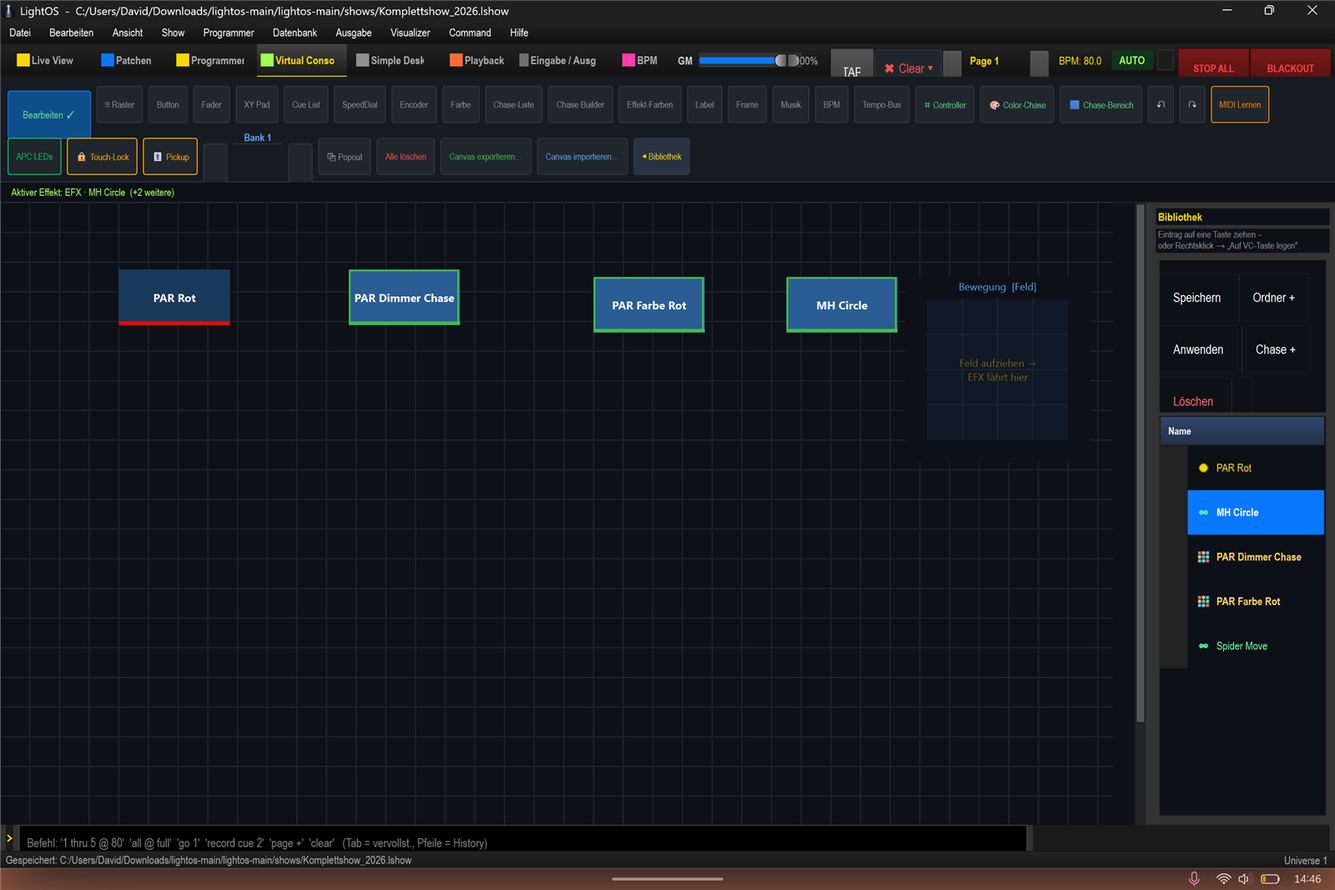
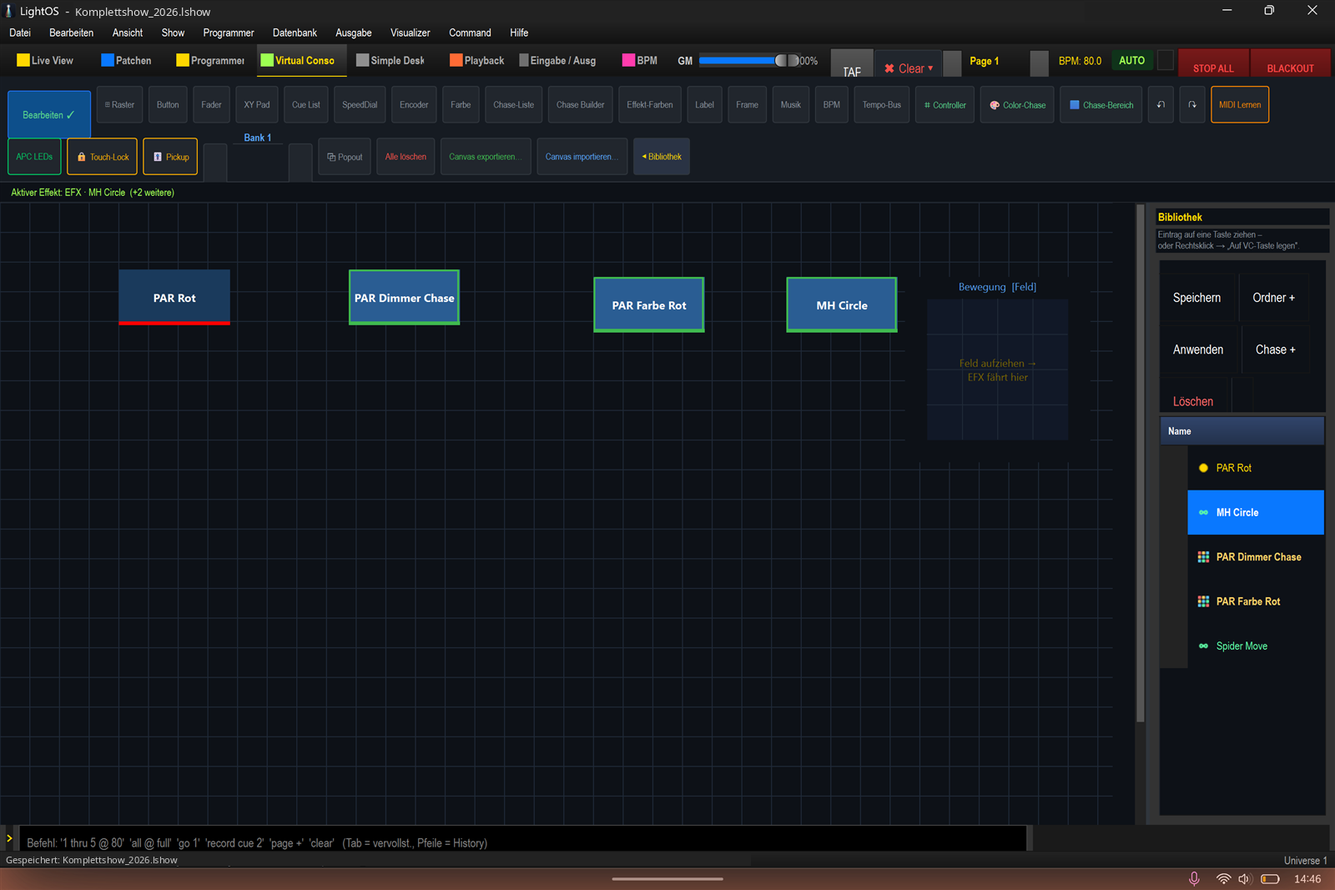
docs(datenschutz): private Pfade, fremde App-Fenster und Seriennummer aus Bildern und Texten (DOC-16a)
- 137 unverlinkte Arbeitsbilder in docs/tutorial_matrix/img/_* entfernt
  (darunter zwei Aufnahmen einer fremden App mit Kontoname).
- Windows-Benutzerpfad in Titel-/Statuszeile von 29 verlinkten Bildern
  ueberdeckt; in zwei Gruppen-Bildern ein fremdes App-Fenster ausgeblendet.
  Grundlage: Sichtpruefung aller 490 Bilder per Kontaktbogen.
- ENTTEC-Seriennummer pseudonymisiert, neuer Waechter
  KeineGeraeteSeriennummerTest.
- BACKLOG: DOC-16 (GitHub-Seite + bebilderte Anleitungen) angelegt.

Changed region(s): [[0.0625, 0.0, 0.375, 0.0309], [0.0, 0.9588, 0.3125, 0.9897]]

diff --git a/tests/test_keine_privaten_dateien.py b/tests/test_keine_privaten_dateien.py
@@ -200,3 +200,39 @@ class KeineFremdenBenutzerpfadeTest(unittest.TestCase):
 
 if __name__ == "__main__":
     unittest.main()
+
+
+class KeineGeraeteSeriennummerTest(unittest.TestCase):
+    """DOC-16a: keine ENTTEC-Seriennummer im oeffentlichen Repo.
+
+    Die Nummer des Rig-Interfaces stand in drei Doku-/Protokoll-Zeilen
+    (RIG_CHECKLISTE, LINUX_STABILITY_FULL_CHECK, BACKLOG HW-5c). Sie hilft
+    niemandem, der das Repo liest, identifiziert aber ein konkretes Geraet.
+    Anders als bei den Benutzerpfaden gilt das auch fuer BACKLOG/CHANGELOG.
+    """
+
+    # ENTTEC-Seriennummern: "EN" + sechs Ziffern, am Wortrand.
+    MUSTER = r"\bEN\d{6}\b"
+
+    def test_keine_seriennummer(self):
+        import re
+        rx = re.compile(self.MUSTER)
+        treffer = []
+        for p in _getrackte_dateien():
+            if not p.endswith((".py", ".sh", ".md", ".json", ".txt")):
+                continue
+            try:
+                with open(os.path.join(_REPO, p), encoding="utf-8") as f:
+                    for nr, zeile in enumerate(f, 1):
+                        if rx.search(zeile):
+                            treffer.append(f"{p}:{nr}")
+            except (OSError, UnicodeDecodeError):
+                continue
+        self.assertEqual(treffer, [], "Seriennummer im Repo — bitte als EN•••••• schreiben.")
+
+    def test_muster_trifft(self):
+        import re
+        rx = re.compile(self.MUSTER)
+        probe = "EN" + "123456"   # zusammengesetzt, sonst faende der Test sich selbst
+        self.assertTrue(rx.search(f"Seriennr. {probe}"))
+        self.assertFalse(rx.search("EN••••••"))

diff --git a/BACKLOG.md b/BACKLOG.md
@@ -697,7 +697,7 @@ Kurzfassung + Handgriffe stehen oben in der Arbeitswarteschlange; Second Brain:
 | HW-3 | P2 | blocked (David/Hardware) | **EFX auf einem einzelnen Kopf am echten Mover.** Gelandet ([PR #454](https://github.com/ixamgames-droid/lightos/pull/454)), verifiziert im Simple-Desk-Kanalstreifen (nur CH6/CH7 bewegten sich, Köpfe 1/3/4 blieben auf 128/128) — aber ohne DMX-Ausgang, also nie an einem echten Motor. **Handgriff:** `Kopf 2` wählen → EFX-Tab → `+ Neu`, **`Speichern`** (ein nicht gespeicherter Entwurf verschwindet beim Tab-Wechsel), dann `▶ Start`. **Melden:** bewegt sich nur dieser Kopf, stehen die anderen, ist der Beam sichtbar. Hängt an HW-1 (welcher Kopf ist es physisch?) und lässt sich in derselben Session miterledigen. |
 | HW-4 | P2 | blocked (David/Hardware) | **Hardware-Verifikation der realen Show** (4 PAR + 2 Moving Heads + APC Mini, ZQ02001 auf Adresse 33/44, 9ch + 11ch) inkl. „MH-Stillstand". Code-seitig ist nichts offen; es fehlt der Durchgang am Gerät gegen die dokumentierten Profil-Annahmen. **Stand bisher nur in `docs/OPEN_POINTS_OVERVIEW.md` als `X-1 / B-1-HW / MH-Stillstand` (dort „Hoch")** — beim Zusammenziehen der Hardware-Punkte 2026-07-27 ins BACKLOG geholt, weil das die Single Source ist. **Melden:** stimmen die Kanalzuordnungen, bleibt ein MH stehen, der fahren soll. |
 | HW-6 | P3 | blocked (Robin/Hardware) | **Die Windows-Port-Warnung (XPLAT-22) am echten Enttec bestätigen.** Der Mechanismus ist am echten Win32 bewiesen, aber über eine exklusiv gehaltene *Datei* — an diesem Rechner hängt kein COM-Port. Offen ist genau eine Frage: **welchen Fehlercode ein FTDI-Adapter im Belegtfall wirklich liefert.** Der Code behandelt vorsorglich beide (5 und 32); käme ein dritter, bliebe die Warnung stumm. **Handgriff:** Enttec anstecken → LightOS starten → zweite Instanz starten. Erwartung: die zweite meldet „ist bereits von einem anderen Prozess geöffnet" samt Verdachtsliste. Bleibt sie stumm, den Code aus `_win_oeffnungsversuch` mitschreiben (er steht in der Rückgabe) und in `_WIN_BELEGT` ergänzen. Zweite Beobachtung, die dabei abfällt: ob das kurze Test-Öffnen am FTDI eine sichtbare Leitungs-Umschaltung auslöst — erwartet wird nein, weil der Aufrufer unmittelbar danach ohnehin selbst öffnet. ★ **Dritter Punkt, dazugekommen mit XPLAT-21:** die Tastenbelegung von `tools/mh_einmessen.py` auf Windows. Die Codes sind dokumentiert und als Tabelle geprüft, aber noch nie an einem echten Terminal gedrückt worden. **Handgriff beim Einmessen:** Strg+Pfeil muss grob bewegen (8x). Tut es das nicht, fängt die Konsole die Taste ab — dann Bild-hoch/-runter bzw. Pos1/Ende probieren; beide Wege sind eingebaut. Funktioniert keiner, den Code mitschreiben (`uebersetze_windows` gibt bei Unbekanntem `''` zurück) und in `WIN_TASTEN` ergänzen. |
-| HW-5c | P2 | ✅ done (2026-08-02, mit Davids Freigabe umgestellt) — `data/universes.json` Universe 3 trägt jetzt `/dev/ttyUSB0` statt `COM_FAKE`, Name auf „Hydra (Enttec /dev/ttyUSB0)" korrigiert (das alte „COM3" war genau der irreführende Teil). Gerät per `udevadm` zweifelsfrei identifiziert: `ID_VENDOR=ENTTEC`, `ID_MODEL=DMX_USB_PRO`, Seriennr. `EN492875`; Port lässt sich öffnen, Nutzer ist in `dialout`. Sicherung der alten Datei liegt außerhalb des Repos (`../archiv/universes-backups/`). **★★ Dabei ist die Begründung des Items weggefallen:** die Vermutung war, `COM_FAKE` erkläre Davids Blackout-Symptom (b) — gemessen über **alle 15 aktiven und 47 archivierten Shows plus den Live-Patch: auf Universe 3 ist nirgends etwas gepatcht.** Alle 30 Geräte liegen auf Universe 1 (Art-Net), inklusive der Hydrabeams, die die Notizen am Enttec vermuteten. Ein Blackout kann an einem Ausgang ohne Geräte nicht gescheitert sein — **Symptom (b) ist damit wieder offen** und braucht die „bierpong v2"-Show (liegt auf dem Windows-Rig) oder Davids Erinnerung, an welchem Ausgang die betroffenen Geräte hingen. *Eine plausible Erklärung ist keine gemessene.* **Nebenbefund:** die Datei trug `COM_FAKE` erneut, obwohl HW-5b sie am 2026-07-30 schon einmal korrigiert hatte (Dateidatum 01.08.) — die fünf naheliegenden Output-Testdateien schreiben sie nachweislich NICHT (Hash vor/nach identisch), die Ursache des Rückfalls ist also offen. Hash notiert, wird nach dem nächsten Voll-Lauf gegengeprüft. — _Ursprünglicher Text:_ | **Das Enttec-Universe zeigt weiterhin auf `COM_FAKE` — die App sendet dort nichts hin.** `data/universes.json` trägt für „Hydra (Enttec COM3)" unverändert `"patch": "COM_FAKE"` (Windows-Rest aus dem Linux-Umzug); auf Linux heißt das Gerät `/dev/ttyUSB0`. HW-5b hat 2026-07-30 die **Warnung** gebaut (der Statusbalken lügt seither nicht mehr, und beim Start steht der Klartext samt Vorschlag im Log) — die **Konfiguration selbst** ist Davids private Laufzeitdatei und wurde nicht angefasst. Aufgefallen beim FM-18-Testlauf, der die echte Datei liest. **Warum das jetzt wichtig ist:** die offene Hälfte von HW-5 (hängt am Ausgang echtes Licht?) braucht genau diesen Pfad — solange dort `COM_FAKE` steht, kommt am Enttec auch mit angeschlossenem Gerät nichts an, und ein negativer Rig-Test würde die falsche Ursache belegen. `tools/hw5_longrun.py` öffnet den Port selbst und war davon nie betroffen. **Handgriff:** Universe-Manager → „Hydra (Enttec COM3)" → Port auf `/dev/ttyUSB0` (die VID/PID-Erkennung schlägt ihn vor). **★ NACHTRAG 2026-08-03 — der Rückfall ist ERNEUT passiert, und die Spur ist jetzt enger.** `data/universes.json` trägt wieder `"patch": "COM_FAKE"`, Dateizeit **2026-08-02 22:50** — also nach der Korrektur um 16:42 desselben Tages (deren Sicherung in `../archiv/universes-backups/` liegt). **Entscheidend: der NAME blieb korrigiert** („Hydra (Enttec /dev/ttyUSB0)"), nur das `patch`-Feld fiel zurück. Damit ist „eine alte Kopie hat die Datei ersetzt" ausgeschlossen — etwas hat gezielt das Port-Feld überschrieben und den Rest stehen lassen. Das zeigt auf den Schreibpfad (`output_config._persist_output` / `_save_universe_config` schreiben Feld für Feld aus der UI-Tabelle), nicht auf einen Datei-Tausch. **Nächster Schritt:** prüfen, womit die Port-Zelle gefüllt wird, wenn beim Aufbau des Universen-Tabs kein Enttec erkannt wird — ein Fallback-Wert dort erklärt genau dieses Muster. Gefunden beim Vorbereiten einer UI-Verifikation (VIZ-15); die zwei Voll-Gate-Läufe dieses Tages scheiden aus, sie liefen in einem Worktree und hätten in dessen eigenes `data/` geschrieben. |
+| HW-5c | P2 | ✅ done (2026-08-02, mit Davids Freigabe umgestellt) — `data/universes.json` Universe 3 trägt jetzt `/dev/ttyUSB0` statt `COM_FAKE`, Name auf „Hydra (Enttec /dev/ttyUSB0)" korrigiert (das alte „COM3" war genau der irreführende Teil). Gerät per `udevadm` zweifelsfrei identifiziert: `ID_VENDOR=ENTTEC`, `ID_MODEL=DMX_USB_PRO`, Seriennr. `EN••••••`; Port lässt sich öffnen, Nutzer ist in `dialout`. Sicherung der alten Datei liegt außerhalb des Repos (`../archiv/universes-backups/`). **★★ Dabei ist die Begründung des Items weggefallen:** die Vermutung war, `COM_FAKE` erkläre Davids Blackout-Symptom (b) — gemessen über **alle 15 aktiven und 47 archivierten Shows plus den Live-Patch: auf Universe 3 ist nirgends etwas gepatcht.** Alle 30 Geräte liegen auf Universe 1 (Art-Net), inklusive der Hydrabeams, die die Notizen am Enttec vermuteten. Ein Blackout kann an einem Ausgang ohne Geräte nicht gescheitert sein — **Symptom (b) ist damit wieder offen** und braucht die „bierpong v2"-Show (liegt auf dem Windows-Rig) oder Davids Erinnerung, an welchem Ausgang die betroffenen Geräte hingen. *Eine plausible Erklärung ist keine gemessene.* **Nebenbefund:** die Datei trug `COM_FAKE` erneut, obwohl HW-5b sie am 2026-07-30 schon einmal korrigiert hatte (Dateidatum 01.08.) — die fünf naheliegenden Output-Testdateien schreiben sie nachweislich NICHT (Hash vor/nach identisch), die Ursache des Rückfalls ist also offen. Hash notiert, wird nach dem nächsten Voll-Lauf gegengeprüft. — _Ursprünglicher Text:_ | **Das Enttec-Universe zeigt weiterhin auf `COM_FAKE` — die App sendet dort nichts hin.** `data/universes.json` trägt für „Hydra (Enttec COM3)" unverändert `"patch": "COM_FAKE"` (Windows-Rest aus dem Linux-Umzug); auf Linux heißt das Gerät `/dev/ttyUSB0`. HW-5b hat 2026-07-30 die **Warnung** gebaut (der Statusbalken lügt seither nicht mehr, und beim Start steht der Klartext samt Vorschlag im Log) — die **Konfiguration selbst** ist Davids private Laufzeitdatei und wurde nicht angefasst. Aufgefallen beim FM-18-Testlauf, der die echte Datei liest. **Warum das jetzt wichtig ist:** die offene Hälfte von HW-5 (hängt am Ausgang echtes Licht?) braucht genau diesen Pfad — solange dort `COM_FAKE` steht, kommt am Enttec auch mit angeschlossenem Gerät nichts an, und ein negativer Rig-Test würde die falsche Ursache belegen. `tools/hw5_longrun.py` öffnet den Port selbst und war davon nie betroffen. **Handgriff:** Universe-Manager → „Hydra (Enttec COM3)" → Port auf `/dev/ttyUSB0` (die VID/PID-Erkennung schlägt ihn vor). **★ NACHTRAG 2026-08-03 — der Rückfall ist ERNEUT passiert, und die Spur ist jetzt enger.** `data/universes.json` trägt wieder `"patch": "COM_FAKE"`, Dateizeit **2026-08-02 22:50** — also nach der Korrektur um 16:42 desselben Tages (deren Sicherung in `../archiv/universes-backups/` liegt). **Entscheidend: der NAME blieb korrigiert** („Hydra (Enttec /dev/ttyUSB0)"), nur das `patch`-Feld fiel zurück. Damit ist „eine alte Kopie hat die Datei ersetzt" ausgeschlossen — etwas hat gezielt das Port-Feld überschrieben und den Rest stehen lassen. Das zeigt auf den Schreibpfad (`output_config._persist_output` / `_save_universe_config` schreiben Feld für Feld aus der UI-Tabelle), nicht auf einen Datei-Tausch. **Nächster Schritt:** prüfen, womit die Port-Zelle gefüllt wird, wenn beim Aufbau des Universen-Tabs kein Enttec erkannt wird — ein Fallback-Wert dort erklärt genau dieses Muster. Gefunden beim Vorbereiten einer UI-Verifikation (VIZ-15); die zwei Voll-Gate-Läufe dieses Tages scheiden aus, sie liefen in einem Worktree und hätten in dessen eigenes `data/` geschrieben. |
 | HW-5 | P3 | done (2026-08-01 — beide Hälften beantwortet) | **Enttec im Langzeitbetrieb (>8 h).** ~~Auto-Reconnect/Health-Check ist im `OutputManager`-Loop noch nicht ergänzt~~ — **das war 2026-07-30 schon überholt:** `EnttecPro` hat den Fehler-Watchdog (`FAIL_LIMIT=20` → Auto-Disable, OUT-02) **und** den gedrosselten Reconnect inklusive VID/PID-Neusuche nach Replug (SERIAL-02) bereits. Offen ist damit nur noch die *empirische* Frage. **Neu: `tools/hw5_longrun.py`** misst sie über denselben Codepfad wie die App (`EnttecPro.send_dmx` → `serial.write`, 40 Hz) und protokolliert Schreibfehler, Auto-Disable, Selbstheilung, Portwechsel, Sendepuffer-Hochwasser und Frame-Abstände; Zwischenstand jederzeit per `--status`. **Gelaufen ist es zweimal auf `/dev/ttyUSB0`** (Details unten). **Bewusst Blackout statt Lichtmuster:** im aktuellen Show-Patch liegen alle 30 Fixtures auf Universe 1 (Art-Net), das Enttec-Universe ist leer — was physisch an der Enttec-Leitung hängt, weiß das Werkzeug nicht, und 8 h blind Kanäle bespielen kann bei Movern/Spidern/Lasern reale Folgen haben. Sichtbarer Ramp ist Opt-in (`--heartbeat-channel`), Sichttest per `--probe`. **Was die Messung NICHT sieht:** den stillen Tod (FTDI nimmt Bytes an, legt aber keine gültigen DMX-Frames mehr auf die Leitung) — dafür bleibt Davids Blick aufs Rig nötig, der Bericht sagt das ausdrücklich dazu. **⚠ Wichtig für die Auswertung dieses Laufs (David 2026-07-30): am Enttec-Ausgang hängt derzeit KEIN Gerät.** Der Lauf beantwortet damit nur die Schreibpfad-Hälfte (Port bleibt offen, `write()` geht durch, kein Auto-Disable). Ein grüner Bericht ist **keine** Komplett-Freigabe — die zweite Hälfte braucht mindestens ein Gerät auf der DMX-Leitung und dann `--probe --heartbeat-channel <N>`. Bis dahin bleibt HW-5 offen, auch wenn 12 h fehlerfrei durchlaufen — **genau so ist es dann auch gekommen** (2. Lauf unten). **Melden:** bricht es weg — nach wie vielen Stunden, und kommt es von selbst zurück? Danach entscheiden wir, ob im `OutputManager`-Loop zusätzlich ein Health-Check nötig ist. **War `F-8` in `docs/OPEN_POINTS_OVERVIEW.md`** (die dortige Zeile ist seit dieser Runde nachgezogen — sie verlangte noch den längst existierenden Auto-Reconnect). **📊 Ergebnis 1. Lauf (2026-07-30 15:51–19:37, `logs/hw5_longrun_20260730_155110.log`):** 3,78 h, **540.225 Frames, 0 Schreibfehler**, Auto-Disable/Reconnect nie ausgelöst, max. Sendepuffer 6 Byte (der FTDI nimmt durchgehend sauber ab), max. Frame-Abstand 0,145 s. Beendet wurde er per SIGTERM fürs Herunterfahren des Rechners, nicht durch einen Fehler — der Bericht ist also vollständig, nur die Laufzeit blieb unter der Fragestellung. **Damit ist die Schreibpfad-Hälfte für ~4 h beantwortet und HW-5 trotzdem offen:** die Frage lautet >8 h, und am Ausgang hing kein Gerät. **📊 Ergebnis 2. Lauf (2026-07-30 22:00 – 2026-07-31 08:12, `logs/hw5_longrun_20260730_220020.log`): 10,21 h, 1.456.939 Frames, 0 Schreibfehler**, Auto-Disable/Reconnect nie ausgelöst, Port am Ende offen und lebendig, max. Sendepuffer 6 Byte, max. Frame-Abstand 0,097 s (also *ruhiger* als im kürzeren 1. Lauf — kein Driften über die Zeit). Beendet per SIGTERM des abgekoppelten Wächters (`logs/shutdown_after_hw5.sh`), der den Rechner danach planmäßig heruntergefahren hat. **Damit ist die >8-h-Frage software-seitig beantwortet: der Schreibpfad bricht über 10 h nicht weg**, ein zusätzlicher Health-Check im `OutputManager`-Loop ist nicht angezeigt (es gab nichts zu heilen). **Offen bleibt allein die Rig-Hälfte** — beide Läufe liefen ohne Gerät an der Leitung, der stille Tod ist damit unverändert ungemessen. Nächster Schritt steht in der Hardware-Tabelle oben. **STAND 2026-08-01: der stille Tod wird GERADE gemessen.** An `/dev/ttyUSB0` hängt ein U-King-Strahler auf Adresse 115; seit 2026-07-31 19:29 läuft ein 12-h-Lauf mit sichtbarem Herzschlag auf den Kanälen 115-118 (Spitze 48). David hat das Faden bestätigt (aus/grün/weiß/grün/aus im 8-s-Takt, später „leuchtet weiterhin immer wieder mal“) - es kommt also laufend GÜLTIGES DMX an, nicht nur ein gehaltener Wert. Damit ist der stille Tod für die bisherige Laufzeit ausgeschlossen; offen ist nur noch, ob das über die vollen 12 h so bleibt. **✅ ABGESCHLOSSEN 2026-08-01.** Dritter Lauf 2026-07-31 19:29 - 2026-08-01 01:21, **erstmals MIT GERÄT** (U-King auf Adresse 115, Herzschlag auf Kanälen 115-118): **5,87 h, 837.989 Frames, 0 Schreibfehler**, Auto-Disable nie ausgelöst, Port am Ende offen. Auf Davids Wunsch vorzeitig beendet - der Bericht ist vollständig, nur die Laufzeit blieb unter 8 h. **Das ist kein Verlust: die >8-h-Frage war mit dem 2. Lauf (10,21 h, 0 Fehler) längst beantwortet.** Was der 3. Lauf beitrug, ist die andere Hälfte - **der stille Tod, und der ist damit ausgeschlossen:** David hat das Muster über die gesamte Laufzeit gesehen (aus/grün/weiß/grün/aus im 8-s-Takt, zuletzt bei 5,8 h „leuchtet immer noch im Muster so wie bisher"). Ein toter Ausgang hält den letzten Wert - ein FADENDES Licht beweist, dass laufend GÜLTIGE DMX-Frames auf der Leitung ankommen, nicht nur Bytes im FTDI. **Damit sind beide Hälften beantwortet:** der Schreibpfad über 10 h fehlerfrei, die Leitung über 5,9 h nachweislich lebendig. Ein zusätzlicher Health-Check im `OutputManager`-Loop ist nicht angezeigt - es gab nichts zu heilen. **Was das NICHT beweist:** ein Ausfall nach z. B. 20 h. Sollte im echten Betrieb je etwas wegbrechen, steht das Werkzeug bereit (`tools/hw5_longrun.py --hours N --heartbeat-channel <N-M>`). |
 | HW-5b | P2 | done (2026-07-30) | **Die Enttec-Universe-Konfiguration war seit dem Linux-Umzug tot — und der Statusbalken meldete trotzdem grün.** `data/universes.json` trug für Universe 3 („Hydra (Enttec COM3)") noch `"patch": "COM_FAKE"`, einen Windows-Rest; auf Linux heißt das Gerät `/dev/ttyUSB0`. `EnttecPro("COM_FAKE")` konnte nur werfen, die Exception verschwand im `except` von `apply_output_config` — **die App sendete gar nichts an den Enttec.** **★ Die eigentliche Bosheit war der Statusbalken:** `_check_hardware` fragte nur `find_enttec_port()`, also ob per VID/PID *irgendein* Enttec am Rechner hängt — ob ein Universe ihn benutzt, interessierte ihn nicht. Also stand dort grün „Enttec: /dev/ttyUSB0 OK", während nichts rausging. Ein Fehler, der sich als Erfolg meldet. **Fix:** neu `enttec_pro.diagnose_port()` (+ `port_is_foreign()`) unterscheidet drei Fälle mit je eigenem Klartext — Portname von einer *anderen Plattform* („Konfiguration von einem anderen Rechner?"), Port *existiert nicht mehr*, *gar keiner konfiguriert* — und nennt jeweils den konkreten Vorschlag aus der VID/PID-Suche. `apply_output_config` hält den Befund je Universe in `enttec_port_notes` fest; der Statusbalken kennt jetzt vier Zustände (aktiv grün · falsch konfiguriert amber mit Grund im Tooltip · Adapter da aber keinem Universe zugewiesen amber · nicht gefunden rot). **★ Bewusst NICHT automatisch umgebogen:** an einem Rechner können mehrere FTDI-Geräte hängen, DMX auf ein nie konfiguriertes Gerät zu schicken wäre schlimmer als der ehrliche Hinweis — und der Aufbau hinge sonst davon ab, was gerade eingesteckt ist, bis in die Tests hinein. Der Öffnungsversuch bleibt exakt wie vorher. **Fallenklasse mitgenommen:** `apply_output_config` wird in Bestandstests auf einem `SimpleNamespace`-Stub mit nur `output_manager`/`universes` aufgerufen — sowohl ein Pflichtfeld als auch eine Hilfsmethode auf `self` schlugen dort mit `AttributeError` zu und wären im `except` verschwunden, also genau in der Fehlerklasse gelandet, die dieses Item behebt (beides von den eigenen Tests gefangen, jetzt `getattr`/Lazy-Init). Test `test_hw5b_enttec_port_resolve.py` (19), inkl. erstem Test für `_check_hardware` überhaupt. **Offen bleibt (a):** der Wert in `data/universes.json` ist Davids private Laufzeitdatei — er stellt das Universe im Universe-Manager auf `/dev/ttyUSB0` um, die App sagt ihm jetzt warum. |
 
@@ -846,6 +846,7 @@ _Davids Auftrag: 3D-Viewer komplett überarbeiten — intuitiv, schön, stabil, 
 | DOC-15 | P3 | todo | **Herkunft:** Werkzeug-Durchgang PROC-07 (2026-09-01, dynamischer Workflow: sieben Mess-Agenten ueber `tools/`, jeder Fund am laufenden Werkzeug gemessen, danach je Bereich ein Skeptiker gegen die behauptete Ersparnis). **Drei verwaiste Bild-Bestaende in `docs/`.** (a) `docs/anleitung_farb_fx_vc/` hat einen `img/`-Ordner, aber **keine `.md`** — Bilder ohne Anleitung. (b) `docs/anleitung_hochzeit_tempo/img/` (6 PNGs vom 2026-06-28) wird von keiner Anleitung eingebunden — die Ausgabe eines Werkzeugs, das seit dem Linux-Umzug gar nicht mehr lief (XPLAT-25). (c) `docs/anleitung_vc_widgets/_capture/` enthaelt Zwischenmaterial der Crop-Pipeline (`full.png`/`full_running.png`/`_edit_full.png`), das mitcommittet wird. **Fertig, wenn:** je Bestand entschieden — einbinden, loeschen oder ignorieren — und die Bild-Gates bleiben gruen. **Nicht blind loeschen:** (b) haengt an TOOL-4. |
 | PROC-08 | P3 | todo | **Herkunft:** Werkzeug-Durchgang PROC-07 (2026-09-01, dynamischer Workflow: sieben Mess-Agenten ueber `tools/`, jeder Fund am laufenden Werkzeug gemessen, danach je Bereich ein Skeptiker gegen die behauptete Ersparnis). **Die Blockerliste der Sitzungs-Tafel hat keine Obergrenze.** PROC-07 hat die LESE-Seite gekuerzt (`list --blocker N`), aber geschrieben wird weiter unbegrenzt: aktuell 22 Eintraege, Zuwachs rund 370 B/Tag. Der Verlauf daneben hat mit `_VERLAUF_MAX=30` laengst eine Grenze. **Fertig, wenn:** die Blocker ein Verfallsdatum oder eine Obergrenze haben. **★ Vorsicht:** das ist die SCHREIB-Seite einer zwischen zwei Sitzungen GETEILTEN Tafel — eine Aenderung dort trifft beide; vorher in `COORDINATION.md` festhalten und die andere Sitzung ueber einen Blocker informieren. |
 | DOC-14 | P3 | todo | **Der Widget-Schaukasten zeigt 17 von 19 Typen** | Gefunden beim DOC-10-Sichtdurchgang 2026-08-31 (an der laufenden App gemessen). `tools/build_vc_widgets_showcase.py` legt 17 Widget-Typen ab und meldet selbst „alle 17 Typen vorhanden" — die Registry in `virtual_console_view.py:189-205` kennt aber **19** (16 Toolbar-Knoepfe + Stepper/Effekt-Anzeige/Effekt-Editor-Box ohne Knopf). Es fehlen `VCTempoBusController` und `VCMultiLiveEditor`. Folge: das Uebersichtsbild `img/uebersicht_alle_widgets.png` zeigt nicht alle Typen; die Bildunterschrift ist deshalb vorerst ehrlich auf „17 der 19" gesetzt. **Fertig, wenn:** der Generator beide Typen mit ablegt, seine Selbstpruefung 19 meldet, das Uebersichtsbild neu aufgenommen ist — und die Bildunterschrift wieder „alle" sagen darf. **★ Vor dem Ueberschreiben alt gegen neu vergleichen** (Lehre 2026-08-03: vier Neuaufnahmen waren qualitativ schlechter als der Bestand). |
+| DOC-16 | P1 | teils | **GitHub-Projektseite und bebilderte Anleitungen auf den heutigen Stand — mit wiederholbarer Screenshot-Strecke** | **Herkunft:** Auftrag vom 30.09.2026 („GitHub-Seite anpassen, was veraltet ist; bebilderte Anleitung für Nutzer“). Bestandsaufnahme (3 Agenten): README-Stand #493 (Juli), seitdem ~346 Commits; veraltet u. a. ENTTEC-Langzeittest („läuft noch“ — seit 01.08. bestanden), Testzahlen, BPM-Abschnitt (Bass-Energy statt Spectral Flux, keine Quelle-Liste), Windows-Testbefehl, Knopfname „+ Fixture“ (heute „+ Gerät hinzufügen“), Titelbild = leere VC; Doku-Tabelle mischt Plan-/Entwicklerdokumente unter Nutzeranleitungen; `ANLEITUNGEN.md` haengt an einer Show, die nicht im Repo liegt; 8 Anleitungen ohne Bilder, 8 aus keinem Index erreichbar; fast alle Bilder Windows/Juni–Juli mit alter Sektionsleiste. Luecken: Erste Schritte, Programmer-Grundlagen, Szenen/Cue-Listen, Ausgabe einrichten. **Scheiben:** (a) Datenschutz in Bildern/Text, (b) README + Index neu gliedern, (c) `tools/anleitungsbilder.py` (Sandbox-Datenordner, Demo-Show aus Builtin-Profilen, offscreen 1600×900, Markierungen per QPainter; 3D braucht echte GPU/Xvfb — offscreen schwarz), (d) neue bebilderte Kern-Anleitungen. **Stand (a) 30.09.:** 137 unverlinkte Arbeitsbilder in `docs/tutorial_matrix/img/_*` entfernt (darunter 2 Aufnahmen einer fremden App mit Kontoname), Windows-Benutzerpfad in Titel-/Statuszeile von 26 Komplettshow-, 2 Testshow- und 1 VC-Workflow-Bild ueberdeckt, in 2 Gruppen-Bildern ein darueberliegendes fremdes App-Fenster ausgeblendet (Sichtpruefung aller 490 Repo-Bilder per Kontaktbogen), ENTTEC-Seriennummer pseudonymisiert + Waechter `KeineGeraeteSeriennummerTest`. Hinweis: die Git-Historie enthaelt die alten Bilder weiterhin — Umschreiben der Historie nur auf ausdrueckliche Entscheidung. |
 | UI-57 | P1 | done (2026-08-31, [PR #687](https://github.com/ixamgames-droid/lightos/pull/687)) — **inkl. Freeze**, der dieselbe Falle hatte | **Herkunft:** Stabilitaets-Durchlauf 2026-08-31 (sechs Sonden-Agenten ueber die Risikobereiche, jeder Fund am laufenden Code gemessen statt erschlossen). **★ ADVERSARIAL GEGENGEPRUEFT** (unabhaengig nachgemessen, Widerlegungsversuch gescheitert). **Bank-/Seitenwechsel waehrend ein Moment-Panik-Taster GEHALTEN wird verschluckt das Loslassen — Blackout bzw. „Alles Weiss" bleiben haengen.** Der Operator haelt den BLACKOUT- oder ALLES-WEISS-Pad am APC und wechselt dabei die VC-Bank. Das `note_off` erreicht den alten Taster nicht mehr (Dispatch-Filter `on_active_bank`), der Taster bleibt `_pressed`. Das Rig bleibt stockdunkel bzw. voll weiss. **Gemessen:** nach Bankwechsel + note_off steht `_all_white_map` weiter, Frame 1..8 = `[128,0,128,0,0,255,4,7]`. **Und es gibt keinen Rueckweg:** STOP ALL, Programmer leeren und sogar „Neue Show" loesen `_all_white_map` nicht — nach `reset_show` wirkt der Override auf die fid der NEUEN Show, also auf ein voellig anderes Geraet. Zurueck kommt man nur, indem man exakt auf die alte Bank schaltet und dort erneut loslaesst. **Das Gegenstueck existiert schon:** `vc_button.py:746 deactivate_for_solo` gibt gehaltene Moment-Aktionen per `_trigger_primary(False)` frei — der Bankwechsel nutzt es nicht. **Fertig, wenn:** ein Bankwechsel jeden auf der verlassenen Bank gehaltenen Moment-Taster freigibt, UND `reset_show`/`_reset_state` `_all_white_map` mitraeumt (am gesendeten Frame gemessen). **Positivkontrolle:** ein Bankwechsel ohne gehaltenen Taster aendert nichts. **Beleg:** `src/ui/virtualconsole/vc_canvas.py:409` (Dispatch-Filter) + `:320` (`set_active_bank` gibt nichts frei); fehlender Reset: `src/core/app_state.py:2938`. |
 | STAB-23 | P1 | done (2026-08-31, [PR #690](https://github.com/ixamgames-droid/lightos/pull/690)) | **Herkunft:** Stabilitaets-Durchlauf 2026-08-31 (sechs Sonden-Agenten ueber die Risikobereiche, jeder Fund am laufenden Code gemessen statt erschlossen). **★ ADVERSARIAL GEGENGEPRUEFT** (unabhaengig nachgemessen, Widerlegungsversuch gescheitert). **`load_show` meldet „geladen", obwohl der Patch gar nicht ersetzt wurde — das naechste Speichern schreibt den Verlust fest.** Dieselbe Fehlerklasse wie QA-50 („etwas meldet Erfolg, ohne ihn zu kennen"), und wieder entsteht der Schaden nicht beim Lesen, sondern beim NAECHSTEN Speichern. **Fertig, wenn:** ein Ladefehler als Fehler zurueckkommt und der Aufrufer ihn behandelt, statt „geladen" zu melden; und ein misslungener Ladevorgang das Speichern blockiert oder wenigstens warnt. **Positivkontrolle:** ein sauberer Ladevorgang meldet unveraendert Erfolg. |
 | ENG-14 | P1 | done (2026-09-01, [PR #696](https://github.com/ixamgames-droid/lightos/pull/696)) | **Herkunft:** Stabilitaets-Durchlauf 2026-08-31 (sechs Sonden-Agenten ueber die Risikobereiche, jeder Fund am laufenden Code gemessen statt erschlossen). **⚠ NOCH NICHT GEGENGEPRUEFT** — die Gegenprobe dieses Bereichs lief in ein Session-Limit. Der Fund traegt eine gemessene Ausgabe, ist aber nicht unabhaengig bestaetigt: **vor dem Fix selbst nachmessen.** **Zwei Collections, die einander enthalten (A→B→A), legen STOP ALL und das Show-Laden lahm.** **Gemessen:** `[FunctionManager] tick error in function 1: maximum recursion depth exceeded` in JEDEM Frame; STOP ALL wirft `RecursionError` und laesst Chaser und Cues laufen. **Beleg:** `src/core/engine/collection.py:49` (`child.stop()` in `_on_stop` ohne Zyklus-Schutz). **Fertig, wenn:** ein Zyklus beim Anlegen abgewiesen ODER zur Laufzeit tiefenbegrenzt wird (Vorbild: `function_coverage` begrenzt Zyklen bereits so), STOP ALL auch mit Zyklus alles anhaelt, und das Laden einer solchen Show nicht stirbt. |

diff --git a/docs/LINUX_STABILITY_FULL_CHECK_2026-07-23.md b/docs/LINUX_STABILITY_FULL_CHECK_2026-07-23.md
@@ -95,7 +95,7 @@ Befunde, Aenderungen, Verifikation und verbleibende Hardwaregrenzen.
     durch die Datenbank der funktionierenden Windows-Installation ersetzt.
 24. Alle 30 Fixtures von `bierpong.lshow` liegen auf Universe 1. Deshalb wurde
     Universe 1 auf den persistenten ENTTEC-Pfad
-    `/dev/serial/by-id/usb-ENTTEC_DMX_USB_PRO_EN492875-if00-port0` gestellt.
+    `/dev/serial/by-id/usb-ENTTEC_DMX_USB_PRO_EN••••••-if00-port0` gestellt.
     Alte Test-/Broadcast-Ausgaenge (`COM_FAKE`, Art-Net, sACN) sind deaktiviert.
 25. Das interne Funkmodul wurde von Linux zunaechst ueberhaupt nicht enumeriert
     (`nmcli`: `WIFI-HW missing`; kein PCI-/USB-WLAN- oder Bluetooth-Geraet).
@@ -171,7 +171,7 @@ Befunde, Aenderungen, Verifikation und verbleibende Hardwaregrenzen.
 | `bierpong.lshow` statische Validierung | BESTANDEN | 0 Findings, 0 Fehler; lokale Kopie SHA-256-identisch zum USB-Original |
 | `bierpong.lshow` Live-Validierung | BESTANDEN | 30 Fixtures geladen, 0 bindungsbewusste Findings/Fehler; alle auf Universe 1 |
 | Onboard-Ethernet | BESTANDEN | `eno1`, 1 Gbit/s Full Duplex; Gateway und `1.1.1.1` je 3/3 Pings; HTTPS zu GitHub explizit ueber `eno1` erfolgreich |
-| ENTTEC DMX USB Pro | BESTANDEN (Host/Protokoll) | Seriennummer EN492875, `ftdi_sio`; stabiler by-id-Pfad; Port geoeffnet, drei 512-Kanal-Blackout-Frames gesendet, sauber geschlossen |
+| ENTTEC DMX USB Pro | BESTANDEN (Host/Protokoll) | Seriennummer EN••••••, `ftdi_sio`; stabiler by-id-Pfad; Port geoeffnet, drei 512-Kanal-Blackout-Frames gesendet, sauber geschlossen |
 | Bierpong-Outputkonfiguration | BESTANDEN | Universe 1 oeffnet realen ENTTEC; 0 Art-Net- und 0 sACN-Ausgaenge; Port beim Shutdown geschlossen |
 | Internes WLAN/Bluetooth | NEUSTART AUSSTEHEND | ThinkCentre M720q: beide Funkoptionen im BIOS von `Disabled` auf `Enabled` gesetzt; Treiber/Firmware vorhanden, Hardware muss nach Neustart neu enumeriert und real verbunden werden |
 | VC-Raster auf breitem Touchscreen | BESTANDEN | Screenshot-Befund behoben; Canvas fuellt breite Viewports, Popout identisch; 28 VC-/Touch-/Frame-Tests bestanden |

diff --git a/docs/RIG_CHECKLISTE.md b/docs/RIG_CHECKLISTE.md
@@ -33,7 +33,7 @@ etwas anderes als du denkst.
   den Enttec also gar nicht — sie gehen über den Art-Net-Node.
 * **Auf dem Enttec-Universe (3) ist nichts gepatcht.** Weder in dieser Show noch
   in einer der 15 gespeicherten oder 47 archivierten. Der Enttec ist angeschlossen
-  (`/dev/ttyUSB0`, ENTTEC DMX USB PRO, Seriennr. EN492875) und der Port ist seit
+  (`/dev/ttyUSB0`, ENTTEC DMX USB PRO, Seriennr. EN••••••) und der Port ist seit
   dem 2026-08-02 korrekt eingetragen — er trägt nur derzeit keine Geräte.
 
 ---
